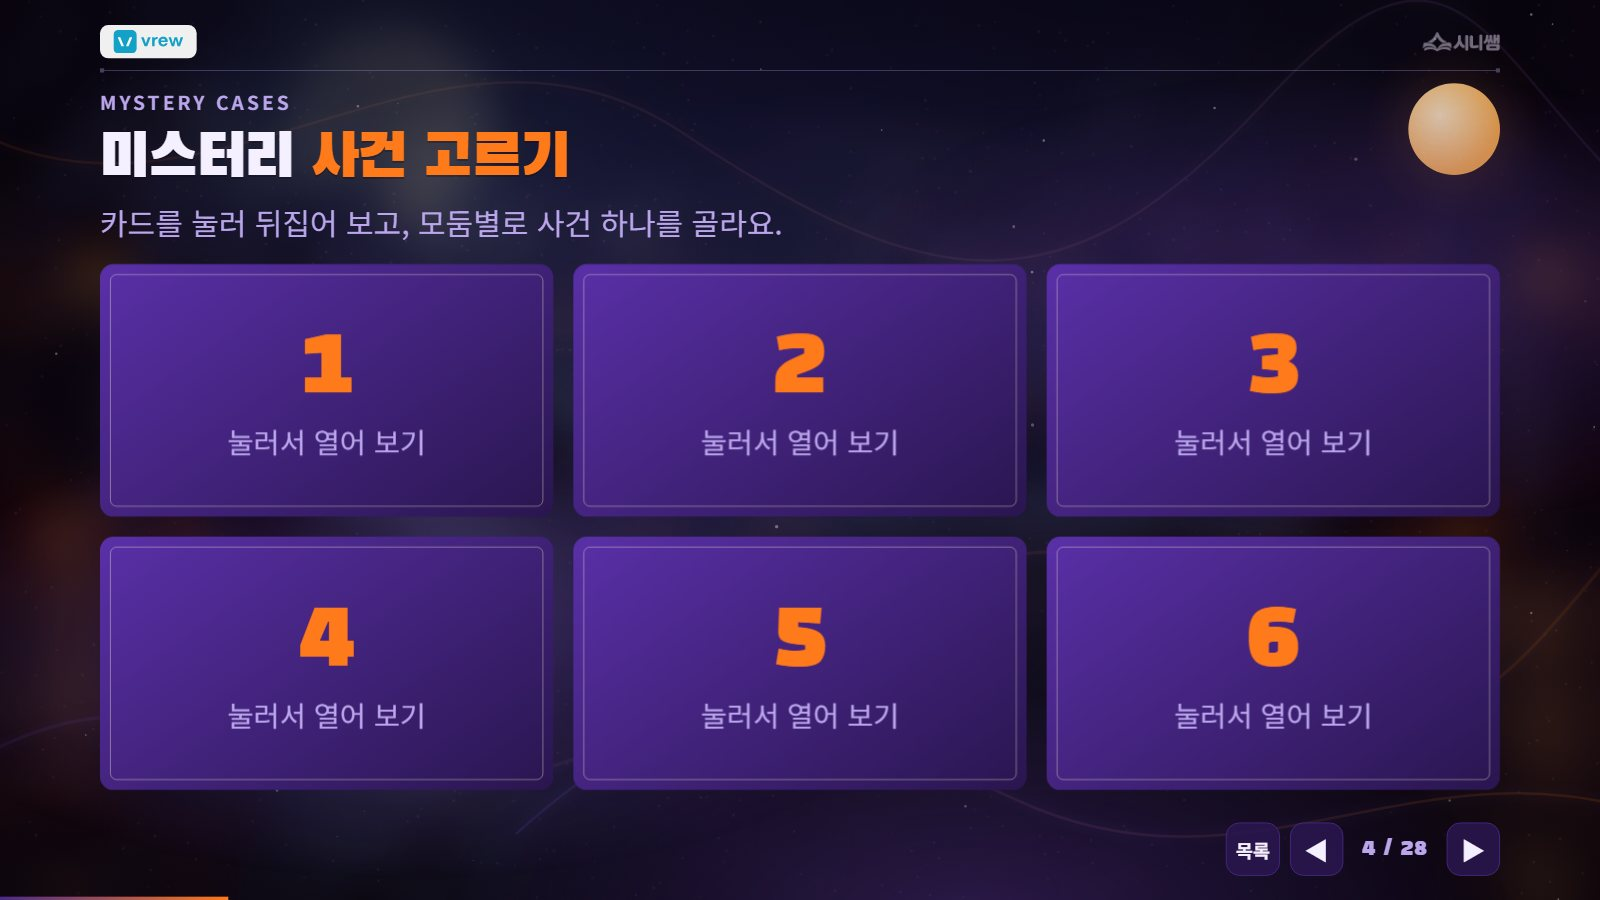
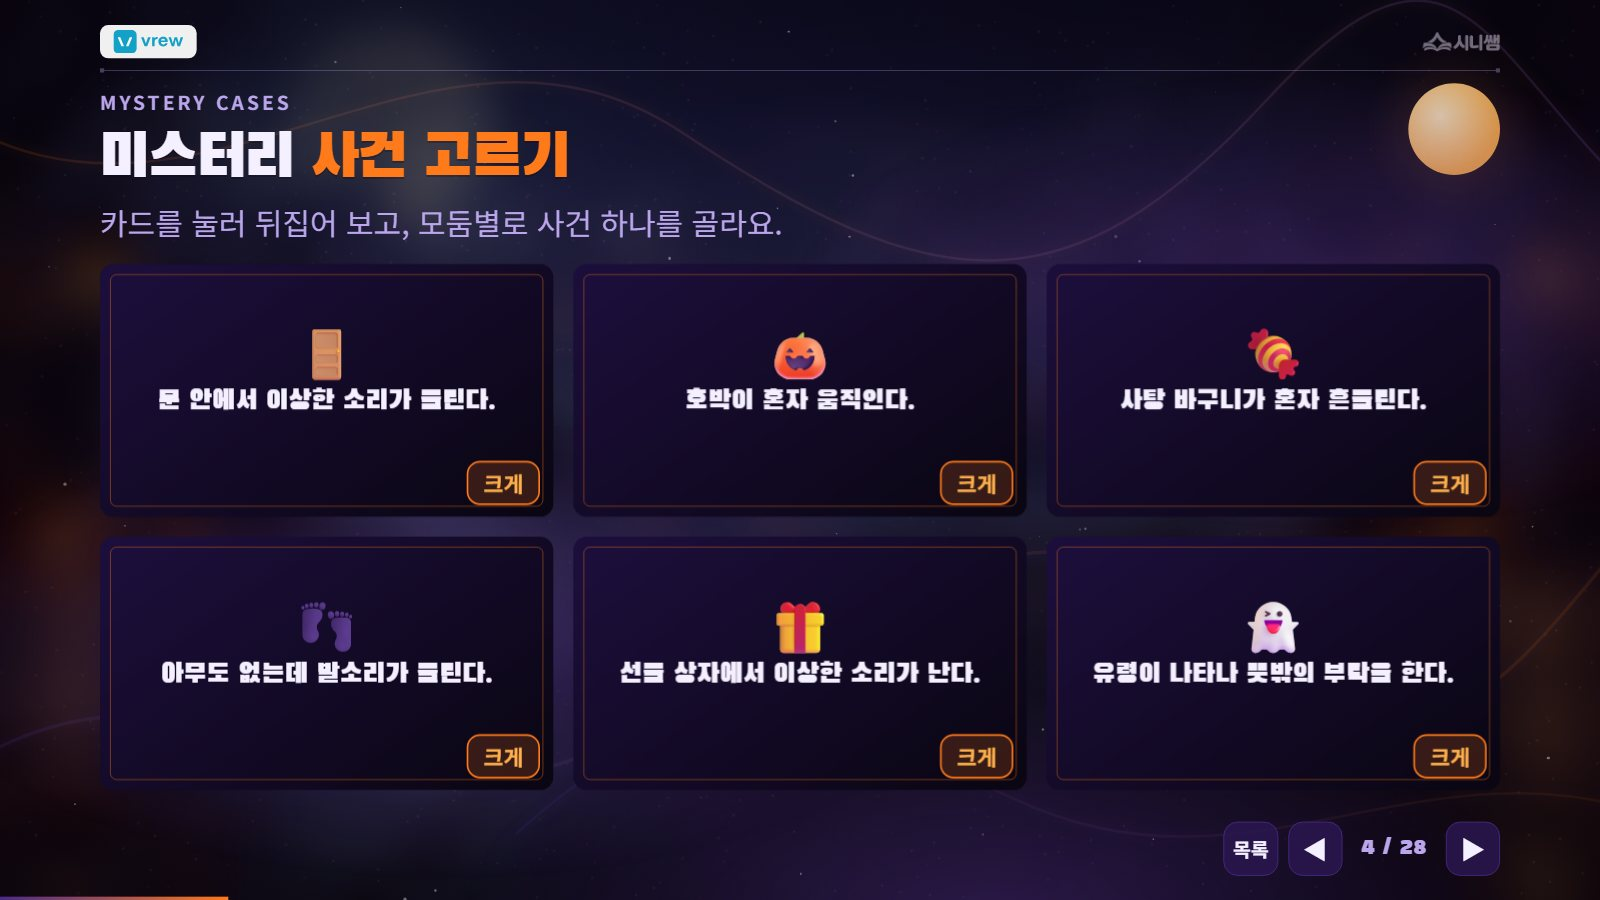
Remove example; case cards opened

diff --git a/index.html b/index.html
@@ -538,7 +538,7 @@ video:-webkit-full-screen{object-fit:contain!important;background:#000;border:0!
     </div>
     <div data-in style="text-align:center"><div style="text-align:center"><div class="phone" style="width:250px"><div class="frame"><video src="assets/hw-teacher.mp4" data-auto muted loop playsinline controls preload="metadata"></video></div></div></div><div class="cap">교사 완성작</div></div>
   </div>
-  <div class="hwpg" hidden><img src="assets/hwlesson/hw-p4.jpg" data-hwp="4" alt="실제 할로윈 수업 교안 4/28 · 미스터리 사건 고르기" loading="lazy"><img src="assets/hwlesson/hw-p8.jpg" data-hwp="8" alt="실제 할로윈 수업 교안 8/28 · 대본 프롬프트, 이 순서로 써요" loading="lazy"><img src="assets/hwlesson/hw-p9.jpg" data-hwp="9" alt="실제 할로윈 수업 교안 9/28 · AI 대본 프롬프트" loading="lazy"><img src="assets/hwlesson/hw-p12.jpg" data-hwp="12" alt="실제 할로윈 수업 교안 12/28 · Vrew 버전 1 따라 하기" loading="lazy"><img src="assets/hwlesson/hw-p14.jpg" data-hwp="14" alt="실제 할로윈 수업 교안 14/28 · 대본 고치기 – 최소 한 문장!" loading="lazy"><img src="assets/hwlesson/hw-p15.jpg" data-hwp="15" alt="실제 할로윈 수업 교안 15/28 · 미디어 설정 화면" loading="lazy"><img src="assets/hwlesson/hw-p17.jpg" data-hwp="17" alt="실제 할로윈 수업 교안 17/28 · 영어 대본이라면, 목소리도 확인해요!" loading="lazy"><img src="assets/hwlesson/hw-p19.jpg" data-hwp="19" alt="실제 할로윈 수업 교안 19/28 · AI 이미지 프롬프트" loading="lazy"><img src="assets/hwlesson/hw-p21.jpg" data-hwp="21" alt="실제 할로윈 수업 교안 21/28 · 이미지를 영상으로" loading="lazy"><img src="assets/hwlesson/hw-p23.jpg" data-hwp="23" alt="실제 할로윈 수업 교안 23/28 · 마지막 내보내기" loading="lazy"><img src="assets/hwlesson/hw-p25.jpg" data-hwp="25" alt="실제 할로윈 수업 교안 25/28 · Padlet에 올리기" loading="lazy"></div>
+  <div class="hwpg" hidden><img src="assets/hwlesson/hw-p4.jpg" data-hwp="4" alt="실제 할로윈 수업 교안 4/28 · 미스터리 사건 고르기 (카드 6장을 모두 연 화면)" loading="lazy"><img src="assets/hwlesson/hw-p8.jpg" data-hwp="8" alt="실제 할로윈 수업 교안 8/28 · 대본 프롬프트, 이 순서로 써요" loading="lazy"><img src="assets/hwlesson/hw-p9.jpg" data-hwp="9" alt="실제 할로윈 수업 교안 9/28 · AI 대본 프롬프트" loading="lazy"><img src="assets/hwlesson/hw-p12.jpg" data-hwp="12" alt="실제 할로윈 수업 교안 12/28 · Vrew 버전 1 따라 하기" loading="lazy"><img src="assets/hwlesson/hw-p14.jpg" data-hwp="14" alt="실제 할로윈 수업 교안 14/28 · 대본 고치기 – 최소 한 문장!" loading="lazy"><img src="assets/hwlesson/hw-p15.jpg" data-hwp="15" alt="실제 할로윈 수업 교안 15/28 · 미디어 설정 화면" loading="lazy"><img src="assets/hwlesson/hw-p17.jpg" data-hwp="17" alt="실제 할로윈 수업 교안 17/28 · 영어 대본이라면, 목소리도 확인해요!" loading="lazy"><img src="assets/hwlesson/hw-p19.jpg" data-hwp="19" alt="실제 할로윈 수업 교안 19/28 · AI 이미지 프롬프트" loading="lazy"><img src="assets/hwlesson/hw-p21.jpg" data-hwp="21" alt="실제 할로윈 수업 교안 21/28 · 이미지를 영상으로" loading="lazy"><img src="assets/hwlesson/hw-p23.jpg" data-hwp="23" alt="실제 할로윈 수업 교안 23/28 · 마지막 내보내기" loading="lazy"><img src="assets/hwlesson/hw-p25.jpg" data-hwp="25" alt="실제 할로윈 수업 교안 25/28 · Padlet에 올리기" loading="lazy"></div>
   <div class="hl" data-in>모둠 활동은 <b>사건 고르기</b>뿐, 나머지는 모두 개인. 처음 Vrew를 쓰는 아이들이라 <b>2차시가 빠듯</b>했어요.</div>
 </section>
 
@@ -548,7 +548,7 @@ video:-webkit-full-screen{object-fit:contain!important;background:#000;border:0!
   <div class="row" style="gap:28px">
     <div class="col f1">
       <div class="card bad" data-in><h3>① 소리 내어 읽고 말하기</h3><p>AI가 쓴 영어 대사를 <b>소리 내어 읽고 따라 말하기</b>를 어려워했어요.</p></div>
-      <div class="card bad" data-in><h3>② 무엇을 넣고, 어디를 고칠지</h3><p>프롬프트에 <b>무엇을 넣을지</b>, “한 문장 이상 고치기”에서 <b>어디를 고칠지</b> 몰라했어요. <span class="sub">잘 고친 예: <span class="en">My dornor is here!</span> → <span class="en" style="color:var(--coral)">My fan is here!</span></span></p></div>
+      <div class="card bad" data-in><h3>② 무엇을 넣고, 어디를 고칠지</h3><p>프롬프트에 <b>무엇을 넣을지</b>, “한 문장 이상 고치기”에서 <b>어디를 고칠지</b> 몰라했어요.</p></div>
       <div class="card bad" data-in><h3>③ 처음 쓰는 Vrew 조작</h3><p>처음 쓰는 Vrew라 <b>화면 조작</b>에서도 막혔어요. 영어 목소리를 꼼꼼히 들어 보지 않은 영상은 <b>한국어 화자</b>처럼 들렸어요 → 목소리를 <b>영어</b>로 설정하면 훨씬 나아요.</p></div>
     </div>
     <div data-in style="width:500px"><div class="frame"><img src="assets/vb-script-final.jpg" alt="할로윈 AI 대본"></div><div class="cap">할로윈 교사 시연 대본 — AI 초안 5문장을 교사가 7문장으로 고친 것</div></div>
